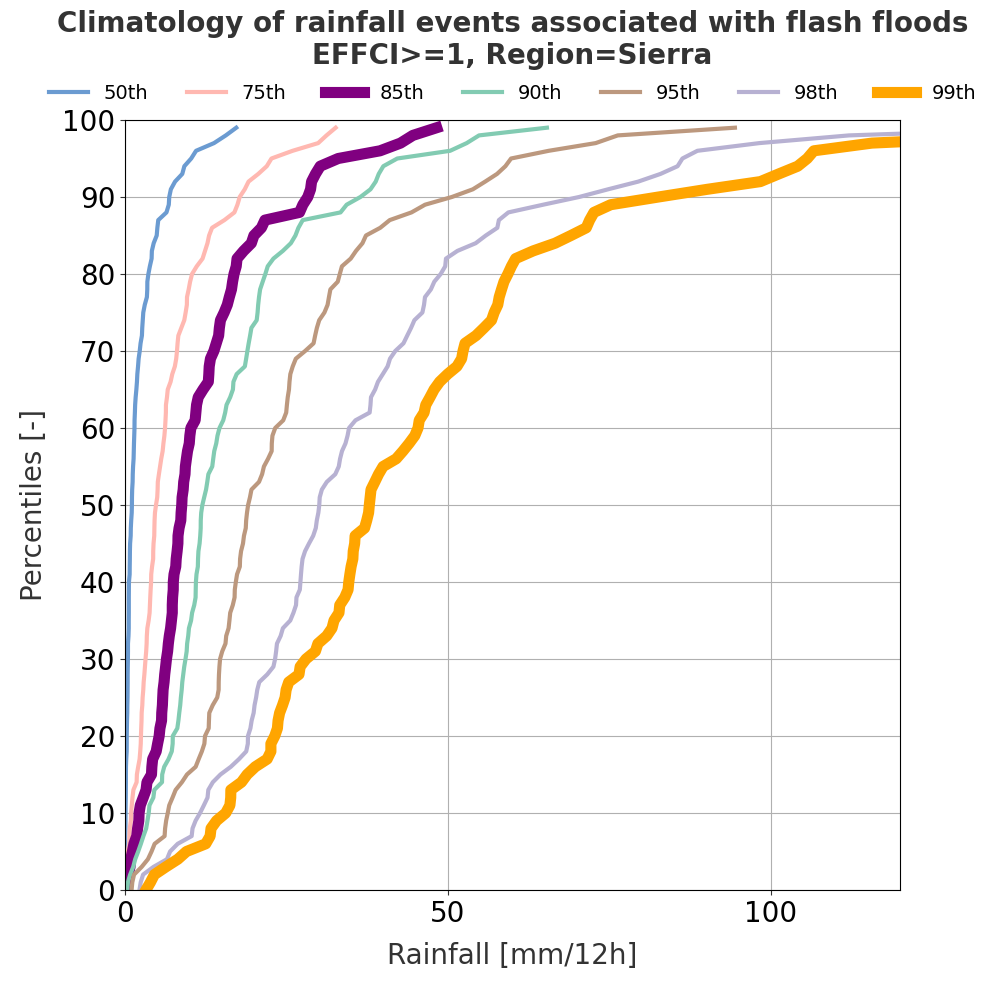
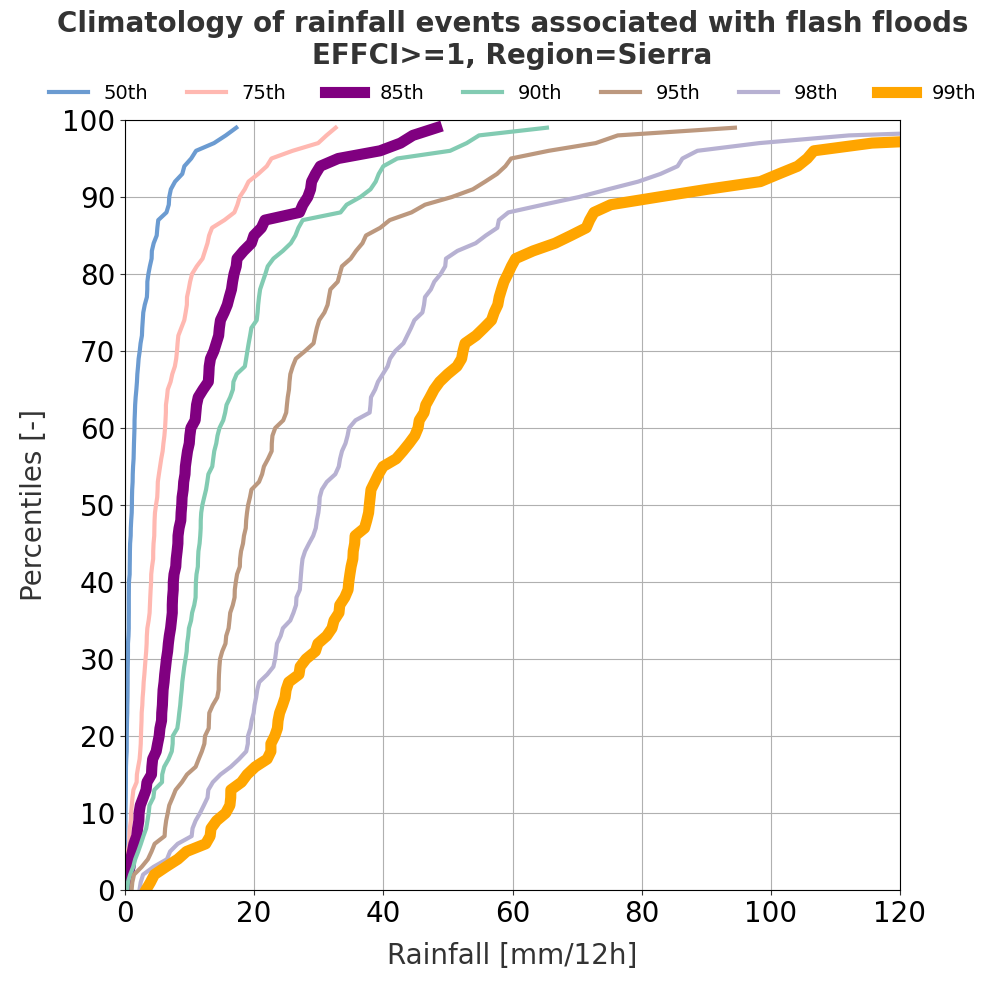
Modified x-axis in the climatologies of rainfall events associated with flash floods.

diff --git a/Scripts/Processed/18_Plot_Climate_Rain_FR.py b/Scripts/Processed/18_Plot_Climate_Rain_FR.py
@@ -23,7 +23,7 @@ import matplotlib.pyplot as plt
 Acc = 12
 EFFCI_list = [1,6,10]
 Max_Rain_Plot = 120
-Max_Rain_Plot_Disc = 50
+Max_Rain_Plot_Disc = 20
 MagnitudeInPerc_Rain_Event_FR_list = [50, 75, 85, 90, 95, 98, 99]
 MagnitudeInPerc_Rain_Event_FR_colours_list = ["#6b9bd1", "#ffb8b1", "purple", "#82cbb2", "#bc987e", "#b7b1d2", "orange"]
 RegionName_list = ["Costa","Sierra"]
